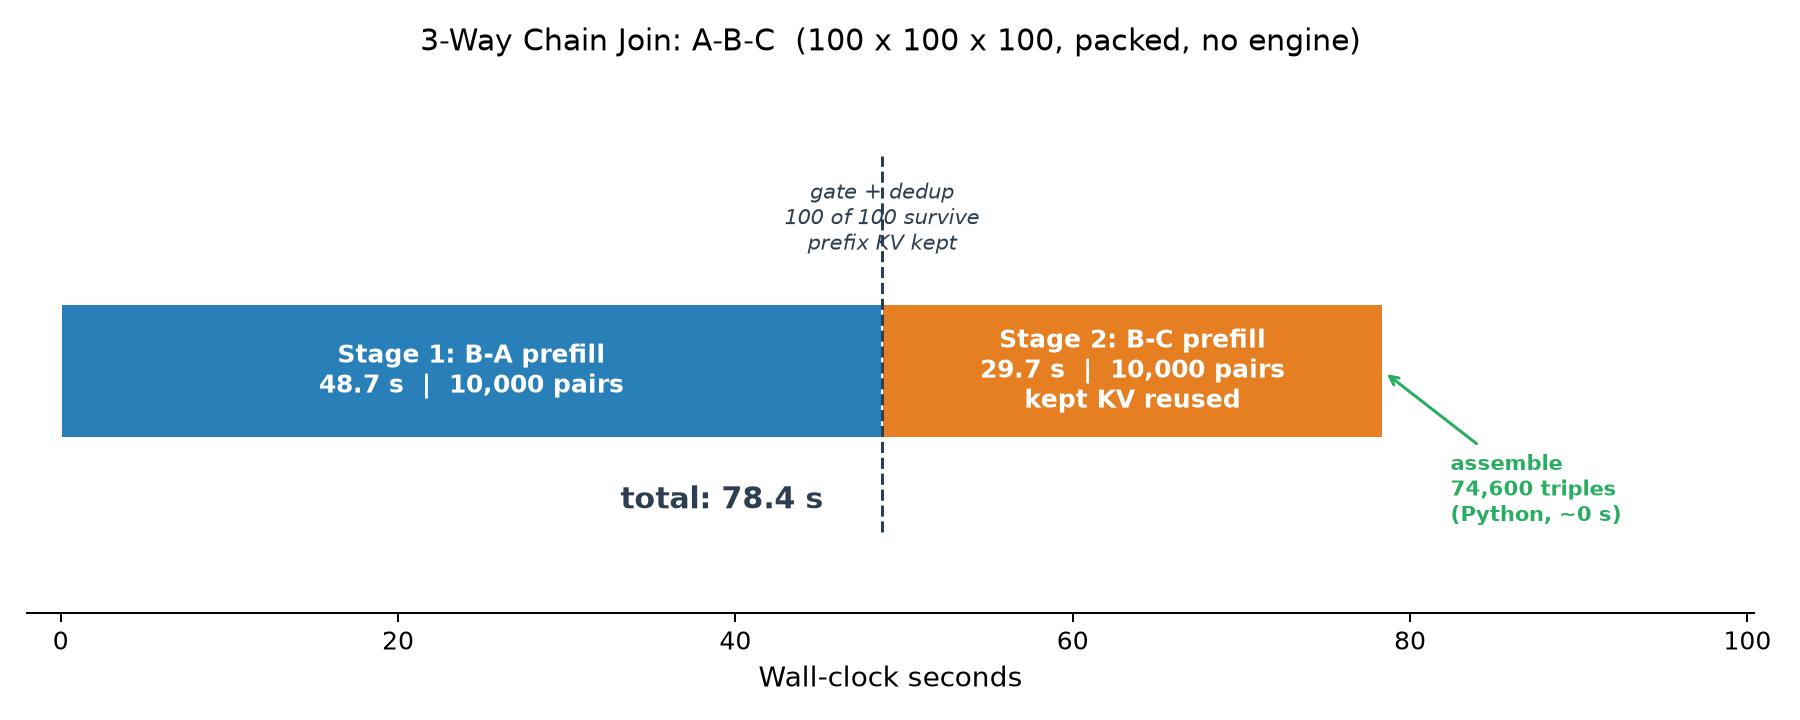
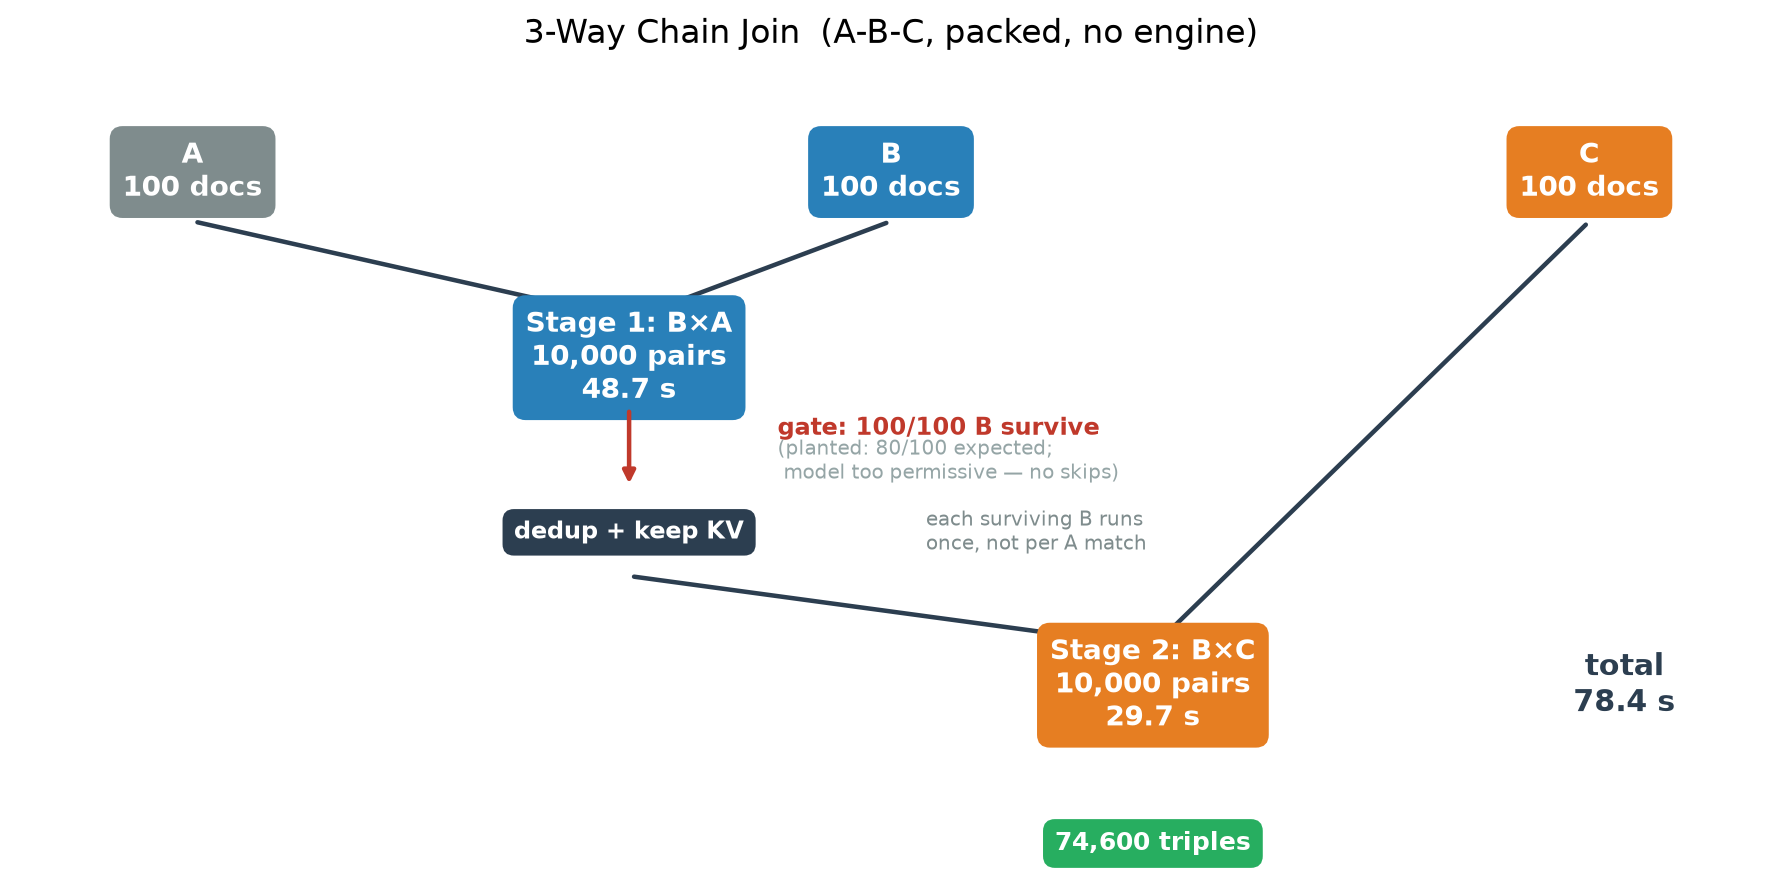
Include packing time in 2-way wall measurement; improve 3-way plot
- Move chunk building inside the timed loop so packed wall times
  include ingestion/packing cost (trivially small but correct).
- Redesign the 3-way plot as a flow diagram showing selectivity:
  expected 80/100 survivors vs actual 100/100, dedup annotation,
  kept KV reuse into stage 2.

diff --git a/results/engine/join_plots.py b/results/engine/join_plots.py
@@ -166,71 +166,85 @@ def predicted_vs_measured():
 
 
 def nway_chart():
-    """Pipeline diagram for the 3-way staged join."""
+    """Flow diagram for the 3-way staged join showing selectivity."""
     d = load("join_nway3.json")
     r = d["result"]
+    n_a, n_b, n_c = d["n_a"], d["n_b"], d["n_c"]
 
     s1 = r["stage1_wall_s"]
     s2 = r["stage2_wall_s"]
-    total = s1 + s2
+    survivors = r["survivors"]
+    planted_expected = r["planted_expected_survivors"]
+    triples = r["triples"]
 
-    fig, ax = plt.subplots(figsize=(10, 4.0))
+    fig, ax = plt.subplots(figsize=(10, 5.0))
+    ax.set_xlim(0, 10)
+    ax.set_ylim(0, 6)
+    ax.axis("off")
 
-    # horizontal bars as a timeline
-    bar_h = 0.45
-    y = 0.5
+    box_kw = dict(boxstyle="round,pad=0.4", linewidth=1.5)
+
+    def box(x, y, text, color, textcolor="white", fontsize=11):
+        ax.text(x, y, text, ha="center", va="center", fontsize=fontsize,
+                fontweight="bold", color=textcolor,
+                bbox=dict(facecolor=color, edgecolor=color, **box_kw))
+
+    def arrow(x1, y1, x2, y2, label="", color="#2c3e50"):
+        ax.annotate("", xy=(x2, y2), xytext=(x1, y1),
+                    arrowprops=dict(arrowstyle="-|>", color=color, lw=1.8))
+        if label:
+            mx, my = (x1 + x2) / 2, (y1 + y2) / 2
+            ax.text(mx, my + 0.22, label, ha="center", va="bottom",
+                    fontsize=9, color=color)
+
+    # relations
+    box(1.0, 5.0, f"A\n{n_a} docs", "#7f8c8d")
+    box(5.0, 5.0, f"B\n{n_b} docs", "#2980b9")
+    box(9.0, 5.0, f"C\n{n_c} docs", "#e67e22")
 
     # stage 1
-    ax.barh(y, s1, height=bar_h, left=0, color="#2980b9", edgecolor="white",
-            linewidth=0.8)
-    ax.text(s1 / 2, y, f"Stage 1: B-A prefill\n{s1:.1f} s  |  10,000 pairs",
-            ha="center", va="center", fontsize=10, color="white",
-            fontweight="bold")
+    arrow(1.0, 4.55, 3.5, 3.65)
+    arrow(5.0, 4.55, 3.5, 3.65)
+    box(3.5, 3.3, f"Stage 1: B×A\n{n_b * n_a:,} pairs\n{s1:.1f} s",
+        "#2980b9")
 
-    # gate/dedup marker
-    gate_x = s1
-    ax.axvline(gate_x, color="#2c3e50", ls="--", lw=1.2, ymin=0.15, ymax=0.85)
-    ax.text(gate_x, y + bar_h * 0.85,
-            f"gate + dedup\n{r['survivors']} of 100 survive\nprefix KV kept",
-            ha="center", va="bottom", fontsize=8.5, color="#2c3e50",
-            style="italic")
+    # gate with selectivity
+    arrow(3.5, 2.85, 3.5, 2.1, color="#c0392b")
+    ax.text(4.35, 2.65, f"gate: {survivors}/{n_b} B survive",
+            fontsize=9.5, color="#c0392b", fontweight="bold",
+            va="center")
+    ax.text(4.35, 2.35,
+            f"(planted: {planted_expected}/{n_b} expected;\n"
+            f" model too permissive — no skips)",
+            fontsize=8, color="#95a5a6", va="center")
+
+    # dedup + kept KV
+    box(3.5, 1.7, f"dedup + keep KV", "#2c3e50", fontsize=9.5)
+    ax.text(5.2, 1.7,
+            f"each surviving B runs\nonce, not per A match",
+            fontsize=8, color="#7f8c8d", va="center")
 
     # stage 2
-    ax.barh(y, s2, height=bar_h, left=s1, color="#e67e22", edgecolor="white",
-            linewidth=0.8)
-    ax.text(s1 + s2 / 2, y,
-            f"Stage 2: B-C prefill\n{s2:.1f} s  |  {r['stage2_pairs']:,} pairs"
-            f"\nkept KV reused",
-            ha="center", va="center", fontsize=10, color="white",
-            fontweight="bold")
+    arrow(3.5, 1.3, 6.5, 0.65)
+    arrow(9.0, 4.55, 6.5, 0.65)
+    box(6.5, 0.3, f"Stage 2: B×C\n{r['stage2_pairs']:,} pairs\n{s2:.1f} s",
+        "#e67e22")
 
-    # assembly marker
-    ax.annotate(
-        f"assemble\n{r['triples']:,} triples\n(Python, ~0 s)",
-        xy=(total, y), xytext=(total + 4, y - bar_h * 0.6),
-        fontsize=8.5, color="#27ae60", fontweight="bold",
-        arrowprops=dict(arrowstyle="->", color="#27ae60", lw=1.2),
-        ha="left", va="top",
-    )
+    # output
+    arrow(6.5, -0.15, 6.5, -0.8, color="#27ae60")
+    box(6.5, -1.15, f"{triples:,} triples", "#27ae60", fontsize=10)
 
-    # total
-    ax.text(total / 2, y - bar_h * 0.85,
-            f"total: {total:.1f} s", ha="center", va="top",
+    # total wall time
+    ax.text(9.2, 0.3, f"total\n{s1 + s2:.1f} s", ha="center", va="center",
             fontsize=12, fontweight="bold", color="#2c3e50")
 
-    ax.set_xlim(-2, total + 22)
-    ax.set_ylim(y - bar_h * 1.8, y + bar_h * 2.2)
-    ax.set_xlabel("Wall-clock seconds", fontsize=11)
-    ax.set_title("3-Way Chain Join: A-B-C  (100 x 100 x 100, packed, no engine)",
-                 fontsize=12, pad=10)
-    ax.set_yticks([])
-    ax.spines["top"].set_visible(False)
-    ax.spines["right"].set_visible(False)
-    ax.spines["left"].set_visible(False)
+    ax.set_title("3-Way Chain Join  (A-B-C, packed, no engine)",
+                 fontsize=13, pad=8)
     fig.tight_layout()
-    fig.savefig(HERE / "join_nway3.png", dpi=180)
+    fig.savefig(HERE / "join_nway3.png", dpi=180, bbox_inches="tight")
     plt.close(fig)
-    print(f"  join_nway3.png  ({s1:.1f} + {s2:.1f} s)")
+    print(f"  join_nway3.png  ({s1:.1f} + {s2:.1f} s, "
+          f"{survivors} survivors)")
 
 
 if __name__ == "__main__":

diff --git a/experiments/modal_join_forward.py b/experiments/modal_join_forward.py
@@ -955,18 +955,16 @@ def join2way(n_reports: int = 100, reps_packed: int = 3,
     answerer = Answerer(torch, F, model, tokenizer)
 
     def run_arm(name, budget, reps):
-        # chunks are packed once, outside the timed loop, the same
-        # way compare() pre-packs its batches
-        chunks = []
-        for p in prefixes:
-            for start, end in plan_groups(len(p), suffix_lens, budget):
-                chunks.append(pack_join_chunk(torch, p,
-                                              suffixes[start:end]))
         packed_answers = None
         for rep in range(reps):
             answers = []
             torch.cuda.reset_peak_memory_stats()
             t0 = time.perf_counter()
+            chunks = []
+            for p in prefixes:
+                for start, end in plan_groups(len(p), suffix_lens, budget):
+                    chunks.append(pack_join_chunk(torch, p,
+                                                  suffixes[start:end]))
             with torch.inference_mode():
                 for chunk in chunks:
                     normed, _ = pipeline.forward_chunk(chunk)
